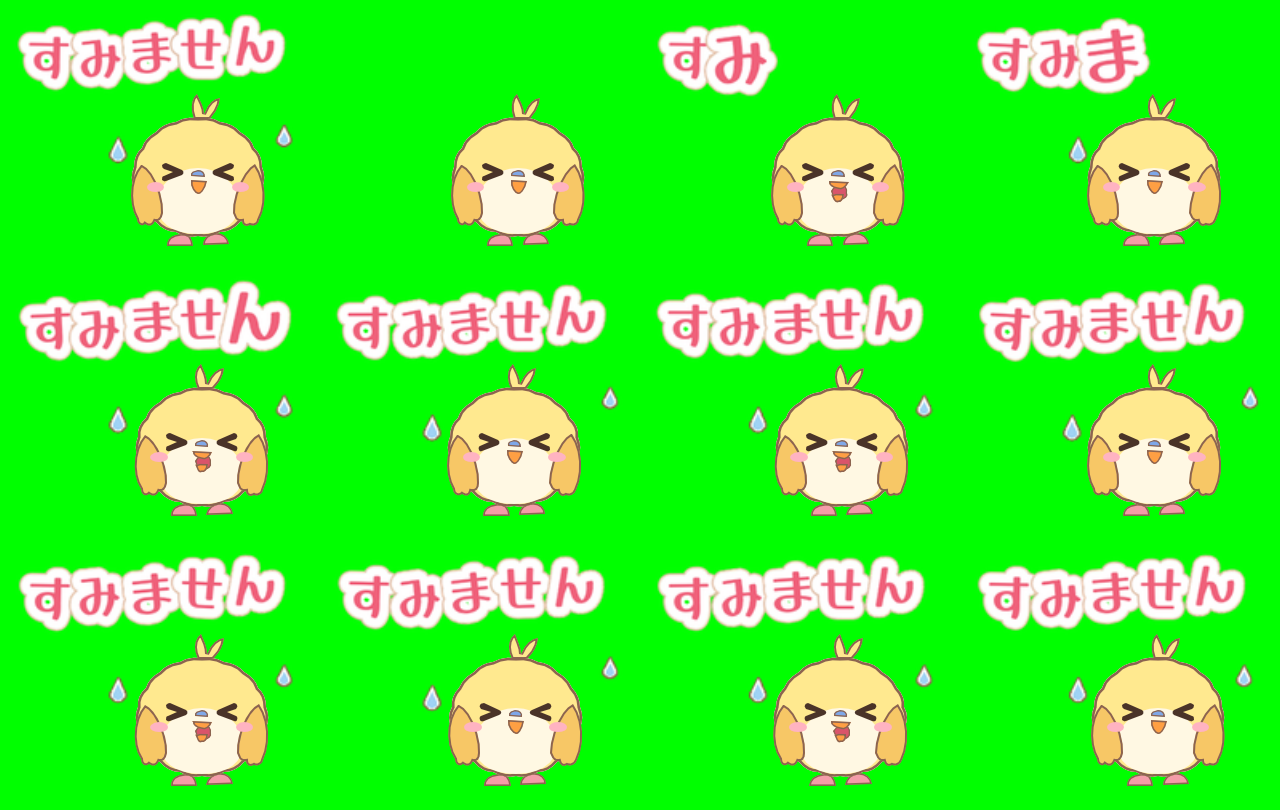
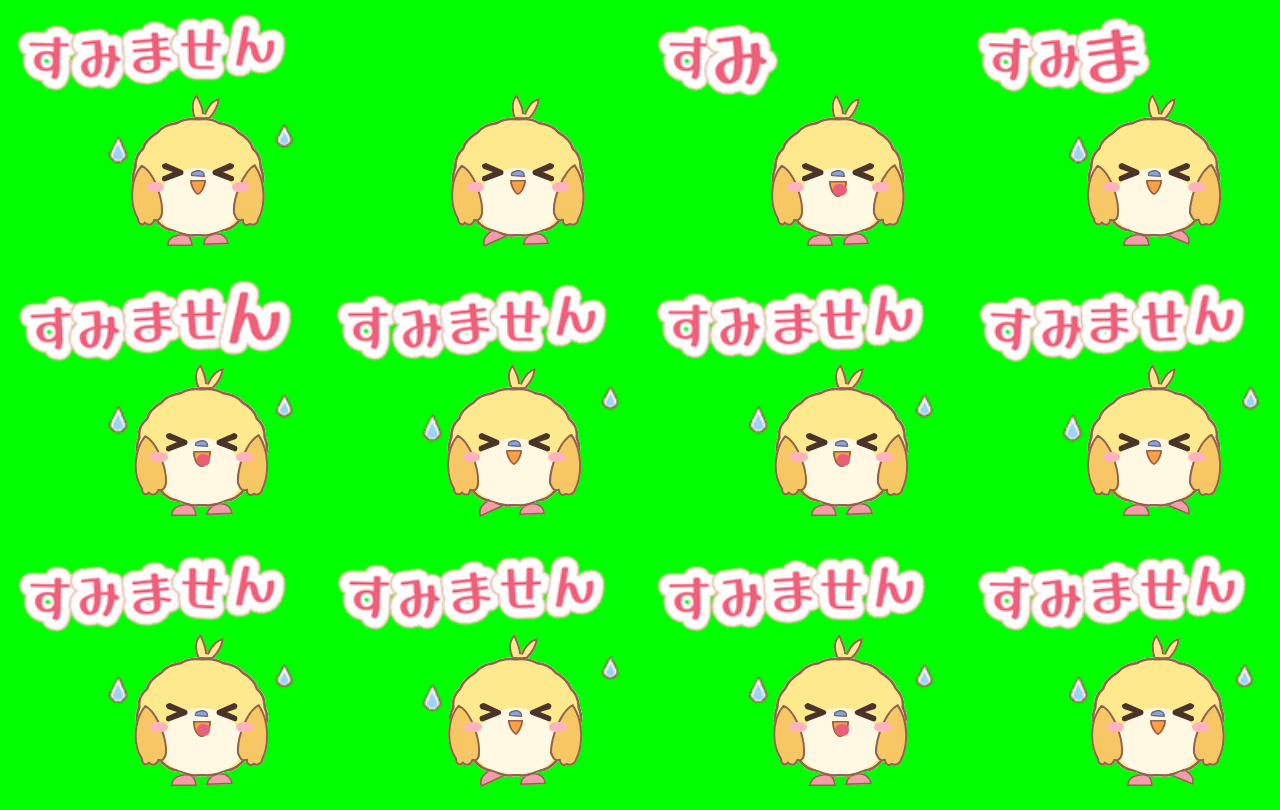
set01 v2: 口を開けた形をきれいに作り直し、足を交互に動かす
Claude-Session: https://claude.ai/code/session_01RfomAZL54wRevPjVr3cHPk

diff --git a/tools/soft.py b/tools/soft.py
@@ -143,7 +143,7 @@ def soften(c):
             e["d"] = scallop(e.get("vw", e["w"]), e.get("vh", e["h"]))
         elif key in ("P6", "P7"):
             e["d"] = wobble(WING_L if key == "P6" else WING_R, key, 0.5)
-        elif e["sw"] and key not in ("P0",):
+        elif e["sw"] and key not in ("P0", "P15"):
             e["d"] = wobble(e["d"], key)
         if e["stroke"] == inko.INK:
             e["stroke"] = LINE
@@ -304,23 +304,34 @@ happy, blink = inko.happy, inko.blink
 PEKO1, PEKO2 = ("peko", 272, 140, 28), ("peko", 272, 156, 32)
 
 
-# 口パク: くちばしを上下に開き、間に口の中(濃いピンク)を見せる。顔の位置はくちばしについて行く。
-BEAK_OPEN = ("M1 2 L21 2 C21 6.5 15.5 10.5 11 10.5 C6.5 10.5 1 6.5 1 2 Z "
-             "M4.5 15.5 C8 14.5 14 14.5 17.5 15.5 C17 20.5 13.5 24 11 24 C8.5 24 5 20.5 4.5 15.5 Z")
-MOUTH = "M7 0.5 C11 0.5 13.5 3.5 13.5 6 C13.5 9.5 11 12.5 7 12.5 C3 12.5 0.5 9.5 0.5 6 C0.5 3.5 3 0.5 7 0.5 Z"
+# 口パク: くちばしを丸いおわん形に開き、中に口(ピンクの楕円)を重ねる。
+# 小さい部品なので手描きの揺らぎはかけない(揺らすと形がくずれる)。
+BEAK_OPEN = "M1 2 L19 2 C19 12 14.5 19 10 19 C5.5 19 1 12 1 2 Z"
+MOUTH = "M6 0.5 C9.5 0.5 11.5 2.5 11.5 5 C11.5 7.5 9.5 9.5 6 9.5 C2.5 9.5 0.5 7.5 0.5 5 C0.5 2.5 2.5 0.5 6 0.5 Z"
 
 
 def talk(c):
     b = c["P15"]
-    b.update(left=b["left"] - 2, w=22, h=25, d=BEAK_OPEN)  # 少し大きく開けて、口の中を見せる
-    mouth = dict(fill="#D9546A", stroke=inko.INK, sw=2, w=14, h=13, left=b["left"] + 4, top=b["top"] + 5,
+    b.update(left=b["left"] - 1, w=20, h=20, d=BEAK_OPEN)
+    mouth = dict(fill="#E8607A", stroke=None, sw=0, w=12, h=10, left=b["left"] + 4, top=b["top"] + 5,
                  d=MOUTH, rot=0)
     items = list(c.items())
     c.clear()
-    for k, v in items:  # 口の中はくちばしの下に重ねる
+    for k, v in items:  # 口の中はくちばしの上に重ねる
+        c[k] = v
         if k == "P15":
             c["P15m"] = mouth
-        c[k] = v
+
+
+def step(side):
+    """足ぶみ: 片足を少し外へけり上げる(side=0 左足, 1 右足)。体の下に隠れないよう外側へずらす。"""
+    def f(c):
+        key, dx, rot = ("P2", -6, -25) if side == 0 else ("P3", 6, 25)
+        if key in c:
+            c[key]["left"] += dx
+            c[key]["top"] -= 3
+            c[key]["rot"] = c[key].get("rot", 0) + rot
+    return f
 
 
 def X(c):
@@ -478,6 +489,11 @@ TALK_FRAMES = (2, 4, 6, 8, 10)
 for frames in STAMPS.values():
     for i in TALK_FRAMES:
         frames[i]["poses"] = frames[i]["poses"] + [talk]
+# 足ぶみ: 2コマ目から左右の足を交互に少し上げる(1コマ目=完成形は両足をつけたまま)
+STEP_FRAMES = {1: 0, 3: 1, 5: 0, 7: 1, 9: 0, 11: 1}
+for frames in STAMPS.values():
+    for i, side in STEP_FRAMES.items():
+        frames[i]["poses"] = frames[i]["poses"] + [step(side)]
 
 
 # ---- 出力 --------------------------------------------------------------------
@@ -628,8 +644,8 @@ ORDER = list(inko.BASE)
 
 
 def inko_order(key):
-    if key == "P15m":  # 口の中はくちばしのすぐ下
-        return ORDER.index("P15") - 0.5
+    if key == "P15m":  # 口の中はくちばしのすぐ上
+        return ORDER.index("P15") + 0.5
     return ORDER.index(key) if key in ORDER else len(ORDER)
 
 

diff --git a/work/set01/qa.md b/work/set01/qa.md
@@ -279,3 +279,9 @@
 | 目に角がある → 丸くする | にっこり目・閉じ目の両端を丸め、「><」目は丸い線で描き直した |
 
 - 8個とも 320×270・12コマ・2秒×2回・300,000バイト以下(最大は 04 の 297,345バイト)。
+
+## ユーザー指摘対応（口のグチャグチャ・足の動き）
+
+- 口を開けた形を作り直した。くちばしは手描き風のゆらぎを付けないお椀型にし、中にピンクの楕円の口を1つだけ重ねる（以前は小さな部品が重なって崩れて見えていた）。
+- 足を少し動かすようにした。奇数コマ（1,3,5,7,9,11）で左右の足を交互に外側へ蹴り出す（横に6px・25度・上に3px）。口パクは偶数コマ（2,4,6,8,10）。
+- Canva の8ページ（11〜18）を描き直してから書き出した。APNG はすべて 300KB 以下（最大 04 = 294,581 バイト）。
